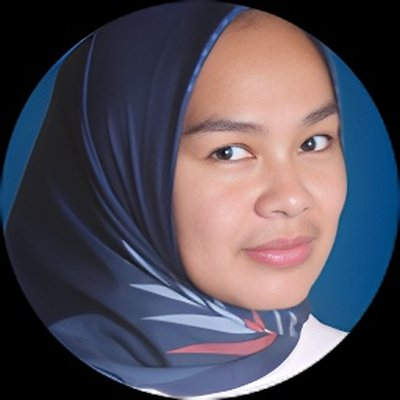
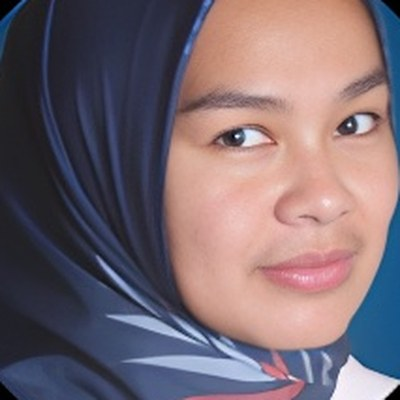
fix: hapus inisial overlay + zoom foto buat hilangin artifak

diff --git a/src/app/page.tsx b/src/app/page.tsx
@@ -631,19 +631,17 @@ function TestimonialCarousel() {
                   <div className={`flex gap-0 rounded-2xl overflow-hidden cursor-pointer transition-all duration-500 ${isCurrent ? "opacity-100 shadow-lg" : "opacity-40 scale-95"}`}>
                     <div className={`w-[200px] shrink-0 bg-gradient-to-br ${t.color} flex items-center justify-center relative overflow-hidden`}>
                       {t.photo ? (
+                        // Foto asli — full cover, tanpa overlay apapun
                         <img 
                           src={t.photo} 
                           alt={`Testimoni ${t.name} - Siswa Kelas ${t.lang} Linguo`}
                           loading="lazy"
                           className="absolute inset-0 w-full h-full object-cover"
-                          onError={(e)=>{
-                            // Fallback ke gradient+initials kalau foto gagal load
-                            (e.currentTarget as HTMLImageElement).style.display='none';
-                          }}
                         />
-                      ) : null}
-                      {/* Fallback initials — selalu render di belakang, kelihatan kalau foto error */}
-                      <div className="h-24 w-24 rounded-full bg-white/30 backdrop-blur-sm flex items-center justify-center text-2xl font-bold text-white z-0">{t.initials}</div>
+                      ) : (
+                        // Fallback initials — hanya muncul kalau photo field gak ada
+                        <div className="h-24 w-24 rounded-full bg-white/30 backdrop-blur-sm flex items-center justify-center text-2xl font-bold text-white">{t.initials}</div>
+                      )}
                     </div>
                     <div className="flex-1 bg-slate-50 p-6 text-left">
                       <div className="flex items-center justify-between mb-1">
